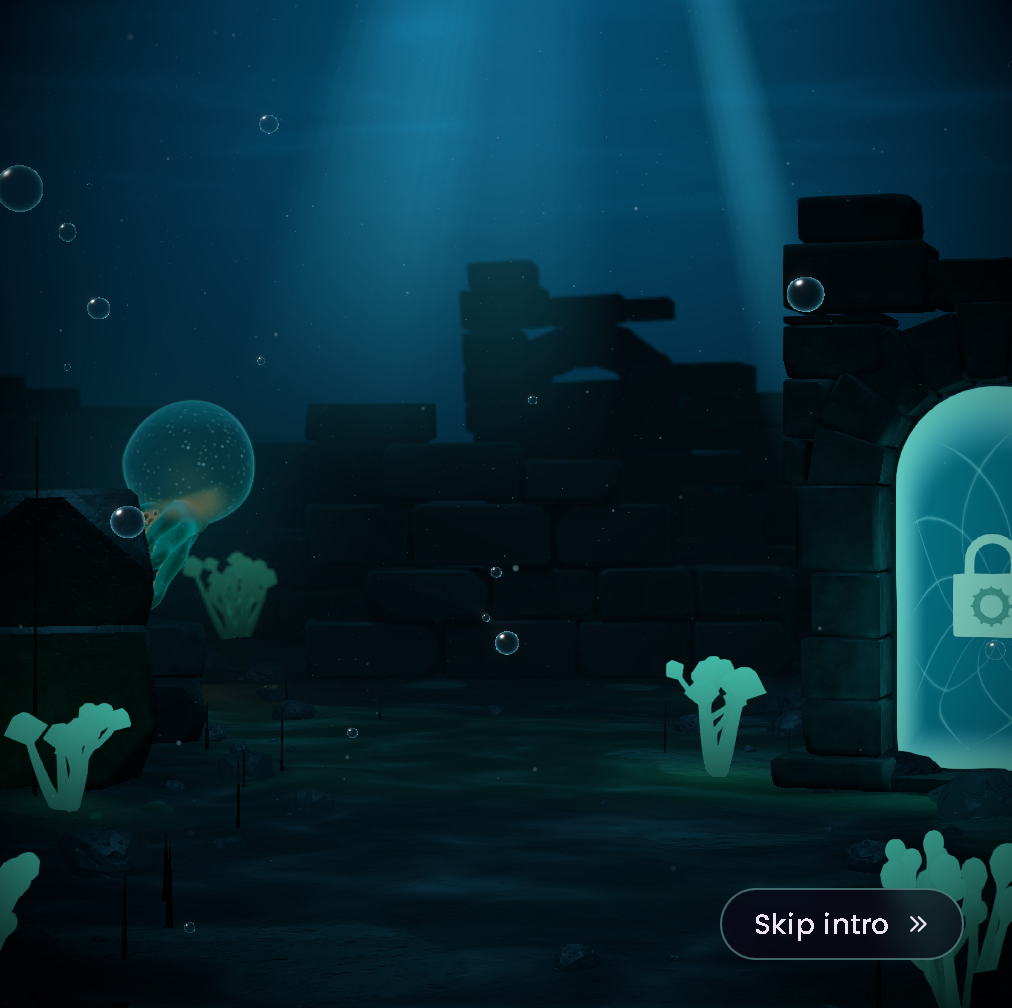
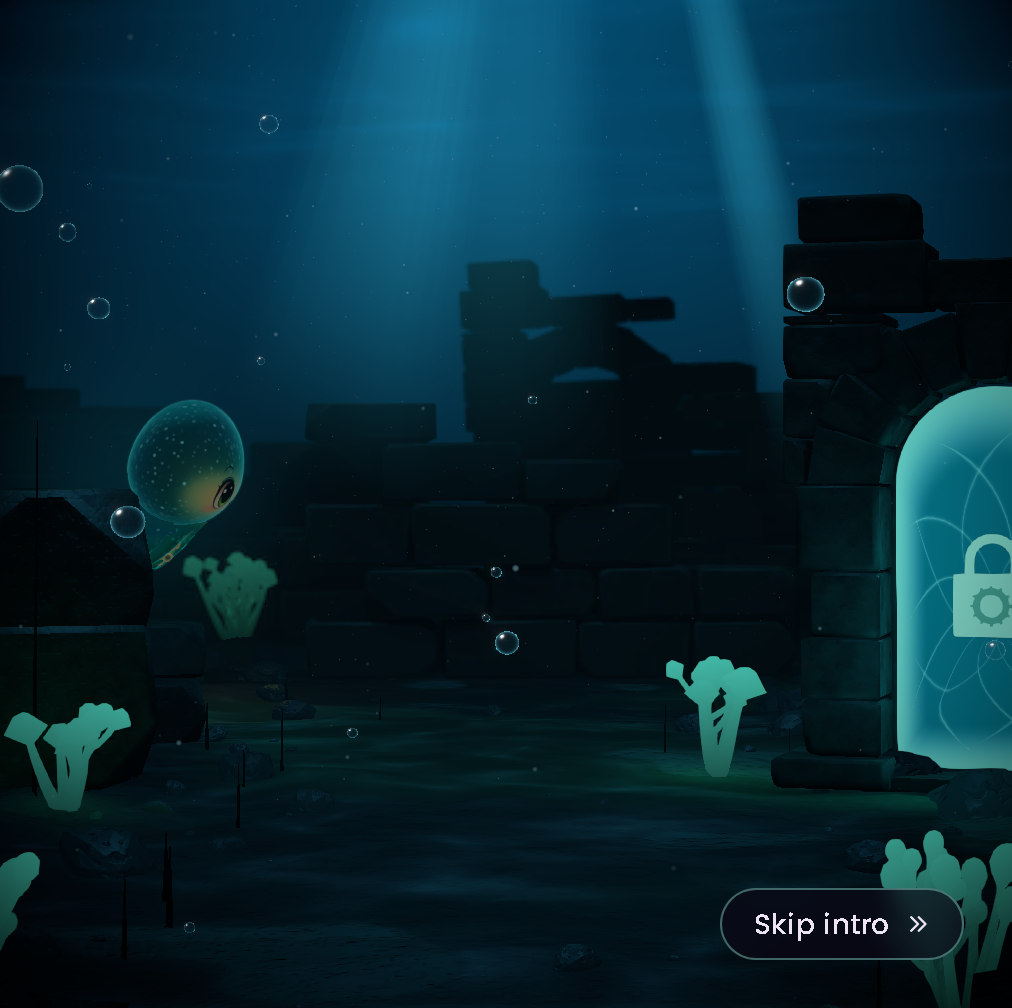
fix(veyra): entrance pre-turn heading (pending owner review)
Key yaw (-80 degrees held to 3 s, 0 by 4.5 s) so she swims in side-on instead of with her back
to the visitor; the shape's 200 degree turn is unchanged and the yaw never decreases.

Changed region(s): [[0.1225, 0.3998, 0.2757, 0.6151]]

diff --git a/src/worlds/veyra/sequences/entrance.test.ts b/src/worlds/veyra/sequences/entrance.test.ts
@@ -147,23 +147,27 @@ test('the membrane flashes once, peaking inside 3.3 to 3.7 s at the most its sha
   for (const p of samples) if (p.s <= 3.3 || p.s >= 4.0) expect(p.v).toBeCloseTo(1, 9);
 });
 
-test('the turn is 200 degrees, between 4.5 and 5.5 s: the yaw rises monotonically from -200 to exactly 0, and holds outside it', () => {
-  expect(deg(at(0).yaw)).toBeCloseTo(-200, 9);
+test('the yaw never decreases: a keyed side view while swimming, exactly -200 at 4.5 s, then the 200 degree turn to exactly 0 at 5.5 s', () => {
+  // She swims in a right-facing side view (-280 degrees in all, as P1 has her), not with her back to the visitor.
+  expect(deg(at(0).yaw)).toBeCloseTo(-280, 9);
+  expect(deg(at(3).yaw)).toBeCloseTo(-280, 9);
   expect(deg(at(4.5).yaw)).toBeCloseTo(-200, 9);
   expect(at(5.5).yaw).toBe(0);
   expect(at(LENGTH).yaw).toBe(0);
   let last = -Infinity;
+  let before = at(4.5).yaw;
   let rise = 0;
-  let before = at(0).yaw;
   for (const s of times(0, LENGTH, 0.001)) {
     const { yaw } = at(s);
     expect(yaw).toBeGreaterThanOrEqual(last);
-    if (s <= 4.5) expect(deg(yaw)).toBeCloseTo(-200, 9);
+    if (s >= 4.5) {
+      rise += yaw - before;
+      before = yaw;
+    }
     if (s >= 5.5) expect(yaw).toBe(0);
-    rise += yaw - before;
-    before = yaw;
     last = yaw;
   }
+  // The shape's turn: 200 degrees between 4.5 and 5.5 s.
   expect(deg(rise)).toBeCloseTo(200, 6);
   // Slow and graceful, not Nox's quick spin: no part of it turns faster than 400 degrees a second (Nox's spin peaks near 560), and it eases in and out.
   const rate = (s: number) => deg(at(s + 0.005).yaw - at(s - 0.005).yaw) / 0.01;

diff --git a/src/worlds/veyra/sequences/defaults.ts b/src/worlds/veyra/sequences/defaults.ts
@@ -22,6 +22,16 @@ export const VEYRA_ENTRANCE: EntranceShape = { turn: (200 * Math.PI) / 180, spir
  */
 const APPEAR_END = 1;
 const TURN_START = 4.5;
+/**
+ * The keyed yaw (radians) she swims in with, on top of the shape's glide-turn: the glide-turn alone
+ * starts her at -200 degrees, her back to the visitor while she travels toward them. Keyed at
+ * YAW_START (-80 degrees, a total of -280, a side view facing right as P1 has her), held to YAW_HOLD and
+ * eased to 0 by the turn's start, the total runs -280 to -200 during the swim and is then the shape's own 200
+ * degree turn, -200 to exactly 0, in the spin window. It never decreases.
+ */
+/** Seconds she holds the side view before the yaw eases back to the shape's -200. */
+const YAW_HOLD = 3;
+const YAW_START = (-80 * Math.PI) / 180;
 const TURN_END = 5.5;
 const SETTLE_END = 6.5;
 
@@ -102,6 +112,8 @@ const ENTRANCE: SequenceDefaults = {
         open: [[TURN_END + 0.15, 0], [SETTLE_END, 1]],
         settle: [[TURN_END, 0], [SETTLE_END, 1]],
         shimmer: [[TURN_END, 0], [SETTLE_END, 1]],
+        // Facing the way she swims (a side view, as P1), easing to the shape's -200 degrees by the turn's start.
+        yaw: [[0, YAW_START], [YAW_HOLD, YAW_START], [TURN_START, 0]],
         // Out of the haze: the glow and aura first, then the shape.
         reveal: [[0, 0], [APPEAR_END, 1]],
         // Leaning a little head first while she glides in, upright by the end of the turn.

diff --git a/src/worlds/veyra/bundle.test.ts b/src/worlds/veyra/bundle.test.ts
@@ -239,7 +239,7 @@ test('the sequences are her own project, and her entrance is a keyed 6.5 s sheet
   expect(VEYRA_BUNDLE.sequences.projectId).toBe('OctoVerse-Veyra');
   const { props, keys } = VEYRA_BUNDLE.sequences.defaults.entrance!.objects.main;
   // Authored (Task 18, sequences/entrance.test.ts): it starts unrevealed and unopened, and keys the path, the strokes, the turn, the settle and the kit.
-  expect(Object.keys(keys).sort()).toEqual(['forward', 'lockRing', 'membraneFlash', 'open', 'pitch', 'reveal', 'settle', 'shimmer', 'spin', 'stroke', 'x', 'y', 'z']);
+  expect(Object.keys(keys).sort()).toEqual(['forward', 'lockRing', 'membraneFlash', 'open', 'pitch', 'reveal', 'settle', 'shimmer', 'spin', 'stroke', 'x', 'y', 'yaw', 'z']);
   expect(props).toMatchObject({ forward: 0, open: 0, settle: 0, reveal: 0, spin: 0 });
 });
 
